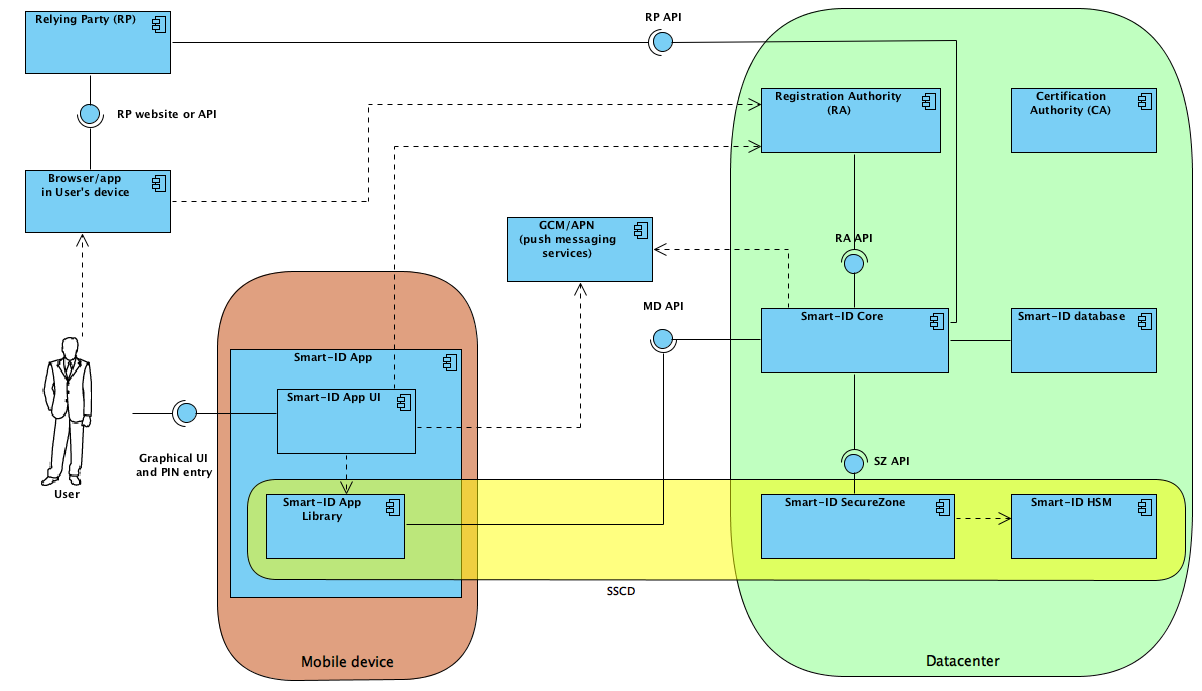
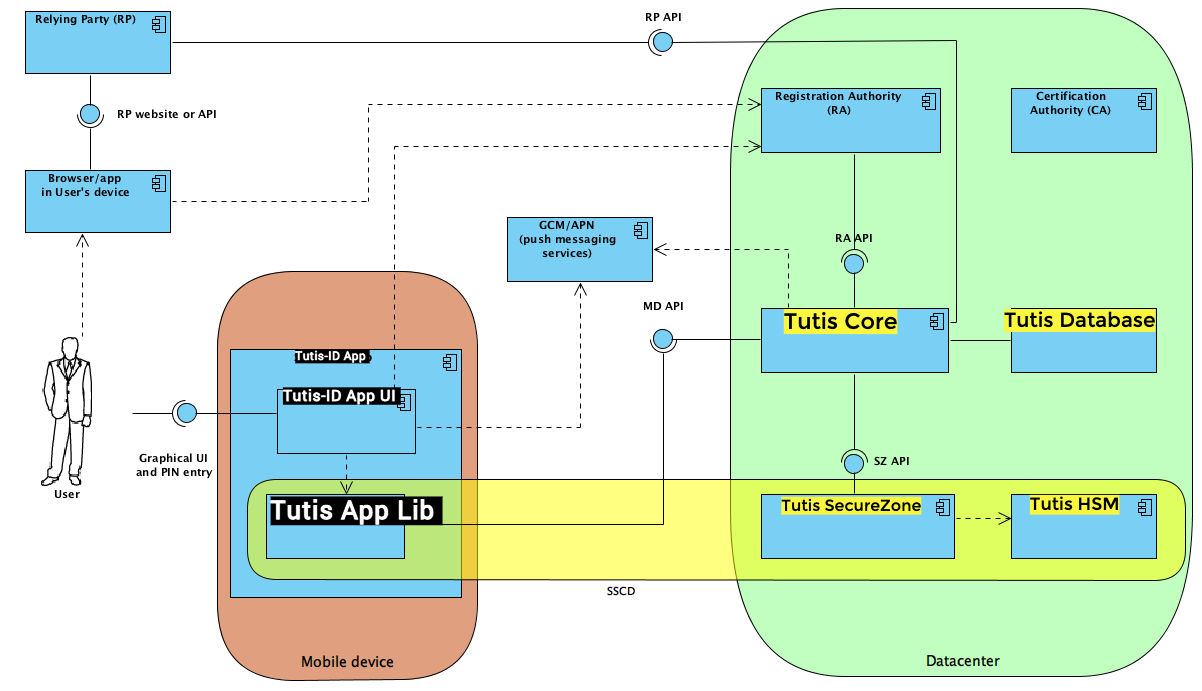
add rp pics

diff --git a/README.md b/README.md
@@ -167,7 +167,7 @@ Technically authentication and signing are very similar, the difference is in th
 certificate) used. For authentication the hash to be signed should be generated randomly by
 the relying party service while for signing the hash is calculated from the content to be signed.
 
-![Figure 1. RP API sequence diagram.](images/RP_API_sequences_REST.png 'Figure 1. RP API seuqence diagram.')
+![Figure 1. RP API sequence diagram.](images/RP_API_sequences.png 'Figure 1. RP API seuqence diagram.')
 
 ### 2.2.1 REST interface patterns
 
@@ -795,7 +795,7 @@ tune the request parameters inside the bounds set by service operator.
 
 Example URL:
 
-- https://example.com/rp/v2/session/de305d54-75b4-431b-adb2-eb6b9e546016?timeoutMs=10000
+- <https://example.com/rp/v2/session/de305d54-75b4-431b-adb2-eb6b9e546016?timeoutMs=10000>
 
 #### 2.3.11.1 Preconditions
 
@@ -930,7 +930,7 @@ The VC value must be displayed to the user in the browser together with a messag
 the end user to verify the code matches with the one displayed on their mobile device. The
 user must not proceed if these don't match.
 
-[^1]: See https://docs.oracle.com/javase/8/docs/api/java/security/SecureRandom.html
+[^1]: See <https://docs.oracle.com/javase/8/docs/api/java/security/SecureRandom.html>
 
 #### 2.3.12.3 Verifying the authentication response
 
@@ -987,3 +987,5 @@ requested the session is cancelled with reason code `REQUIRED_INTERACTION_NOT_SU
 
 `displayText60`, `displayText200` - Text to display for authentication consent dialog on
 the mobile device. Limited to 60 and 200 characters respectively.
+
+![Figure 1. RP API sequence diagram.](images/tutis-id-system-context.png 'Figure 1. RP API seuqence diagram.')
